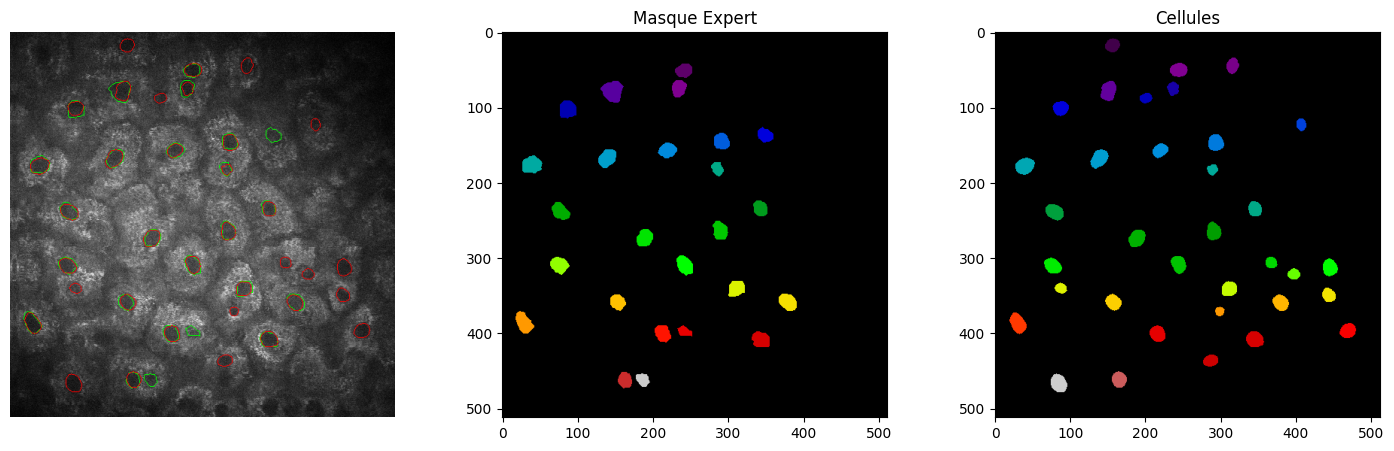
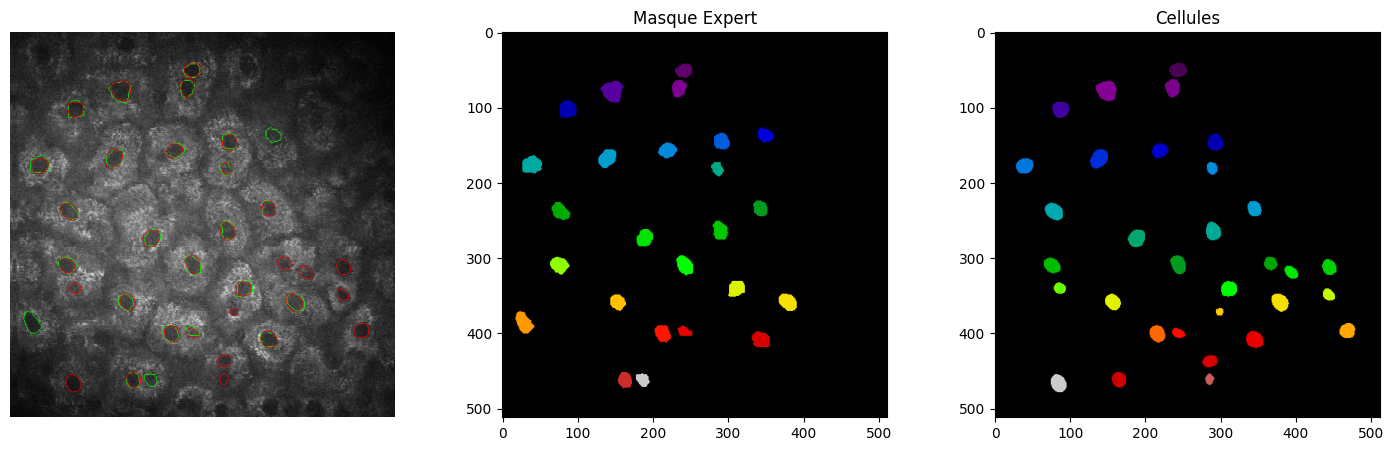
2 channel debug

diff --git a/scripts/tool.py b/scripts/tool.py
@@ -7,17 +7,20 @@ from cellpose import metrics, utils
 
 import os, shutil, owncloud
 from datetime import datetime
+from scipy import ndimage
 
 class CellVisualizer:
     def __init__(self, 
                  img_dir='./data/1-Images/01-Data/', 
                  ann_dir='./data/2-Annotations/02-Annotations/',
                  nuc_dir = './data/02-Annotations_Clean/',
-                 proc_dir='./data/processed/'):
+                 nuc_pred_dir='./data/prediction/cellpose_nuclei_200_train/masks/',
+                 cell_pred_dir='./data/prediction/cellpose4_50/'):
         self.img_dir = Path(img_dir)
         self.ann_dir = Path(ann_dir)
         self.nuc_dir = Path(nuc_dir)
-        self.proc_dir = Path(proc_dir)
+        self.nuc_pred_dir = Path(nuc_pred_dir)
+        self.cell_pred_dir = Path(cell_pred_dir)
 
     def _get_path(self, folder, pattern):
         return next(folder.rglob(pattern))
@@ -34,11 +37,11 @@ class CellVisualizer:
             
         elif mode == 'Cell_Pred':
             pattern = f"{id_unique}*Cell_pred.bmp"
-            p = self._get_path(self.proc_dir, pattern)
+            p = self._get_path(self.cell_pred_dir, pattern)
             
         elif mode == 'Nuc_Pred':
             pattern = f"{id_unique}*Nuc_pred.bmp"
-            p = self._get_path(self.proc_dir, pattern)
+            p = self._get_path(self.nuc_pred_dir, pattern)
 
         else: # Image
             pattern = f"{id_unique}*"
@@ -64,6 +67,42 @@ class CellVisualizer:
             return new_mask
             
         return img
+
+    def load_channel(self, ids, mode='raw'):
+        """
+        Prépare les données multi-canaux (2, H, W) pour Cellpose.
+        Modes disponibles : 
+        - 'raw' : Duplication de l'image biphoton.
+        - 'clahe' : Amélioration de contraste locale sur le second canal.
+        - 'Nuc_Pred' : Utilisation des masques de noyaux prédits transformés en EDT.
+        """
+        X = []
+        Y = [self.load_data(i, 'Cell') for i in ids]
+        
+        for i in ids:
+            img = self.load_data(i, 'Image')
+            img_norm = cv2.normalize(img, None, 0, 255, cv2.NORM_MINMAX).astype(np.uint8)
+            
+            if mode == 'raw':
+                ch2 = img_norm
+                
+            elif mode == 'clahe':
+                clahe = cv2.createCLAHE(clipLimit=2.0, tileGridSize=(8, 8))
+                ch2 = clahe.apply(img_norm)
+                
+            elif mode == 'Nuc_Pred':
+                nuc_mask = self.load_data(i, mode='Nuc_Pred')
+                binary_nuc = (nuc_mask > 0).astype(np.uint8)
+                
+                if binary_nuc.max() > 0:
+                    edt = ndimage.distance_transform_edt(binary_nuc)
+                    ch2 = cv2.normalize(edt, None, 0, 255, cv2.NORM_MINMAX).astype(np.uint8)
+                else:
+                    ch2 = np.zeros_like(img_norm)
+        
+            X.append(np.stack([img_norm, ch2], axis=0))
+            
+        return X, Y
 
     # Fonction utilitaire de chargement
     def load_set(self, ids, mode='Cell'):
@@ -163,6 +202,7 @@ class CellVisualizer:
 
         if ax is None: fig, ax = plt.subplots()
         ax.imshow(overlay)
+        ax.set_title(f"Overlay {i} : Expert (Vert) vs Pred (Rouge)")
         ax.axis('off')
         if show: plt.show()
     
@@ -249,6 +289,33 @@ class Stats:
         
         f1 = (2 * tp) / (2 * tp + fp + fn) if (2 * tp + fp + fn) > 0 else 0
         return {"f1": float(f1), "ap": float(ap), "tp": int(tp), "fp": int(fp), "fn": int(fn)}
+    
+    def plot_f1_vs_iou(self, mask_true, mask_pred, thresholds=np.arange(0.5, 1.05, 0.05), ax=None, show=True):
+        """
+        Génère la courbe du F1-Score en fonction de l'exigence géométrique (IoU).
+        """
+        f1_scores = []
+        
+        # Itération sur la plage de tolérance
+        for thresh in thresholds:
+            perf = self.summary_perf(mask_true, mask_pred, iou_threshold=thresh)
+            f1_scores.append(perf["f1"])
+            
+        # Création ou récupération de l'axe de tracé
+        if ax is None:
+            fig, ax = plt.subplots(figsize=(8, 5))
+            
+        ax.plot(thresholds, f1_scores, marker='o', linewidth=2)
+        
+        ax.set_xlabel('Seuil de tolérance (IoU)')
+        ax.set_ylabel('F1-Score')
+        ax.set_xlim(0.45, 1.05)
+        ax.set_ylim(0.0, 1.05)
+        ax.grid(True, linestyle='--', alpha=0.7)
+        ax.legend()
+        
+        if show:
+            plt.show()
 
     def report(self, name, mask_true, mask_pred, show = True):
         res = self.summary_perf(mask_true, mask_pred)
